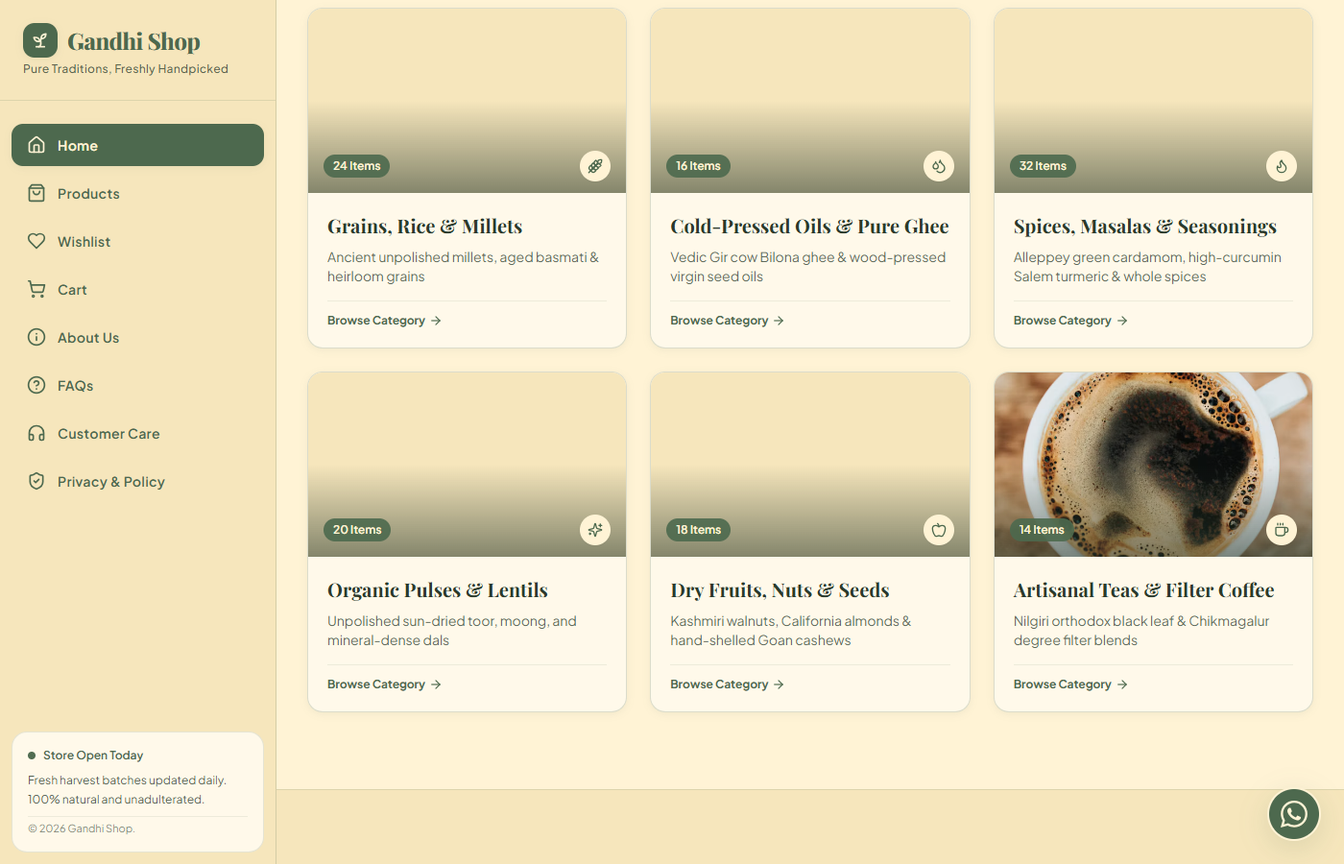
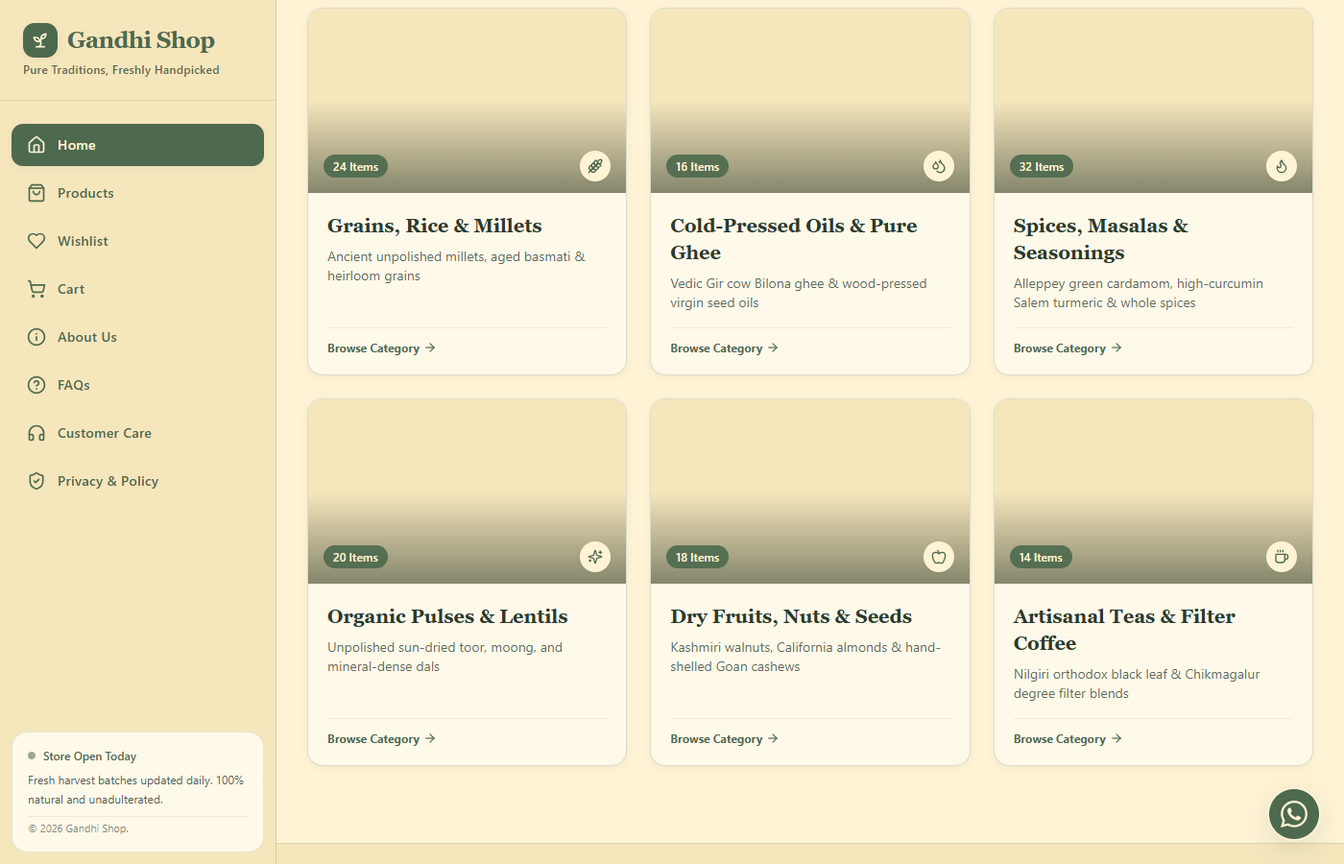
Convert color palette to Lemon Chiffon (#FFFACD) and Indian Red (#CD5C5C)

diff --git a/dist/assets/index-BgeKcpTG.css b/dist/assets/index-BgeKcpTG.css
@@ -1,0 +1,1 @@
+*,:before,:after{--tw-border-spacing-x: 0;--tw-border-spacing-y: 0;--tw-translate-x: 0;--tw-translate-y: 0;--tw-rotate: 0;--tw-skew-x: 0;--tw-skew-y: 0;--tw-scale-x: 1;--tw-scale-y: 1;--tw-pan-x: ;--tw-pan-y: ;--tw-pinch-zoom: ;--tw-scroll-snap-strictness: proximity;--tw-gradient-from-position: ;--tw-gradient-via-position: ;--tw-gradient-to-position: ;--tw-ordinal: ;--tw-slashed-zero: ;--tw-numeric-figure: ;--tw-numeric-spacing: ;--tw-numeric-fraction: ;--tw-ring-inset: ;--tw-ring-offset-width: 0px;--tw-ring-offset-color: #fff;--tw-ring-color: rgb(59 130 246 / .5);--tw-ring-offset-shadow: 0 0 #0000;--tw-ring-shadow: 0 0 #0000;--tw-shadow: 0 0 #0000;--tw-shadow-colored: 0 0 #0000;--tw-blur: ;--tw-brightness: ;--tw-contrast: ;--tw-grayscale: ;--tw-hue-rotate: ;--tw-invert: ;--tw-saturate: ;--tw-sepia: ;--tw-drop-shadow: ;--tw-backdrop-blur: ;--tw-backdrop-brightness: ;--tw-backdrop-contrast: ;--tw-backdrop-grayscale: ;--tw-backdrop-hue-rotate: ;--tw-backdrop-invert: ;--tw-backdrop-opacity: ;--tw-backdrop-saturate: ;--tw-backdrop-sepia: ;--tw-contain-size: ;--tw-contain-layout: ;--tw-contain-paint: ;--tw-contain-style: }::backdrop{--tw-border-spacing-x: 0;--tw-border-spacing-y: 0;--tw-translate-x: 0;--tw-translate-y: 0;--tw-rotate: 0;--tw-skew-x: 0;--tw-skew-y: 0;--tw-scale-x: 1;--tw-scale-y: 1;--tw-pan-x: ;--tw-pan-y: ;--tw-pinch-zoom: ;--tw-scroll-snap-strictness: proximity;--tw-gradient-from-position: ;--tw-gradient-via-position: ;--tw-gradient-to-position: ;--tw-ordinal: ;--tw-slashed-zero: ;--tw-numeric-figure: ;--tw-numeric-spacing: ;--tw-numeric-fraction: ;--tw-ring-inset: ;--tw-ring-offset-width: 0px;--tw-ring-offset-color: #fff;--tw-ring-color: rgb(59 130 246 / .5);--tw-ring-offset-shadow: 0 0 #0000;--tw-ring-shadow: 0 0 #0000;--tw-shadow: 0 0 #0000;--tw-shadow-colored: 0 0 #0000;--tw-blur: ;--tw-brightness: ;--tw-contrast: ;--tw-grayscale: ;--tw-hue-rotate: ;--tw-invert: ;--tw-saturate: ;--tw-sepia: ;--tw-drop-shadow: ;--tw-backdrop-blur: ;--tw-backdrop-brightness: ;--tw-backdrop-contrast: ;--tw-backdrop-grayscale: ;--tw-backdrop-hue-rotate: ;--tw-backdrop-invert: ;--tw-backdrop-opacity: ;--tw-backdrop-saturate: ;--tw-backdrop-sepia: ;--tw-contain-size: ;--tw-contain-layout: ;--tw-contain-paint: ;--tw-contain-style: }*,:before,:after{box-sizing:border-box;border-width:0;border-style:solid;border-color:#e5e7eb}:before,:after{--tw-content: ""}html,:host{line-height:1.5;-webkit-text-size-adjust:100%;-moz-tab-size:4;-o-tab-size:4;tab-size:4;font-family:Plus Jakarta Sans,Inter,system-ui,sans-serif;font-feature-settings:normal;font-variation-settings:normal;-webkit-tap-highlight-color:transparent}body{margin:0;line-height:inherit}hr{height:0;color:inherit;border-top-width:1px}abbr:where([title]){-webkit-text-decoration:underline dotted;text-decoration:underline dotted}h1,h2,h3,h4,h5,h6{font-size:inherit;font-weight:inherit}a{color:inherit;text-decoration:inherit}b,strong{font-weight:bolder}code,kbd,samp,pre{font-family:ui-monospace,SFMono-Regular,Menlo,Monaco,Consolas,Liberation Mono,Courier New,monospace;font-feature-settings:normal;font-variation-settings:normal;font-size:1em}small{font-size:80%}sub,sup{font-size:75%;line-height:0;position:relative;vertical-align:baseline}sub{bottom:-.25em}sup{top:-.5em}table{text-indent:0;border-color:inherit;border-collapse:collapse}button,input,optgroup,select,textarea{font-family:inherit;font-feature-settings:inherit;font-variation-settings:inherit;font-size:100%;font-weight:inherit;line-height:inherit;letter-spacing:inherit;color:inherit;margin:0;padding:0}button,select{text-transform:none}button,input:where([type=button]),input:where([type=reset]),input:where([type=submit]){-webkit-appearance:button;background-color:transparent;background-image:none}:-moz-focusring{outline:auto}:-moz-ui-invalid{box-shadow:none}progress{vertical-align:baseline}::-webkit-inner-spin-button,::-webkit-outer-spin-button{height:auto}[type=search]{-webkit-appearance:textfield;outline-offset:-2px}::-webkit-search-decoration{-webkit-appearance:none}::-webkit-file-upload-button{-webkit-appearance:button;font:inherit}summary{display:list-item}blockquote,dl,dd,h1,h2,h3,h4,h5,h6,hr,figure,p,pre{margin:0}fieldset{margin:0;padding:0}legend{padding:0}ol,ul,menu{list-style:none;margin:0;padding:0}dialog{padding:0}textarea{resize:vertical}input::-moz-placeholder,textarea::-moz-placeholder{opacity:1;color:#9ca3af}input::placeholder,textarea::placeholder{opacity:1;color:#9ca3af}button,[role=button]{cursor:pointer}:disabled{cursor:default}img,svg,video,canvas,audio,iframe,embed,object{display:block;vertical-align:middle}img,video{max-width:100%;height:auto}[hidden]:where(:not([hidden=until-found])){display:none}.\!container{width:100%!important}.container{width:100%}@media(min-width:640px){.\!container{max-width:640px!important}.container{max-width:640px}}@media(min-width:768px){.\!container{max-width:768px!important}.container{max-width:768px}}@media(min-width:1024px){.\!container{max-width:1024px!important}.container{max-width:1024px}}@media(min-width:1280px){.\!container{max-width:1280px!important}.container{max-width:1280px}}@media(min-width:1536px){.\!container{max-width:1536px!important}.container{max-width:1536px}}.pointer-events-none{pointer-events:none}.pointer-events-auto{pointer-events:auto}.visible{visibility:visible}.fixed{position:fixed}.absolute{position:absolute}.relative{position:relative}.sticky{position:sticky}.inset-0{top:0;right:0;bottom:0;left:0}.inset-y-0{top:0;bottom:0}.-bottom-6{bottom:-1.5rem}.-right-1{right:-.25rem}.-right-3{right:-.75rem}.-right-4{right:-1rem}.-top-1{top:-.25rem}.bottom-0{bottom:0}.bottom-3{bottom:.75rem}.bottom-4{bottom:1rem}.bottom-6{bottom:1.5rem}.left-0{left:0}.left-1\/2{left:50%}.left-3{left:.75rem}.left-4{left:1rem}.right-0{right:0}.right-3{right:.75rem}.right-4{right:1rem}.right-6{right:1.5rem}.top-0{top:0}.top-3{top:.75rem}.top-4{top:1rem}.top-6{top:1.5rem}.z-10{z-index:10}.z-20{z-index:20}.z-40{z-index:40}.z-50{z-index:50}.m-3{margin:.75rem}.mx-auto{margin-left:auto;margin-right:auto}.my-12{margin-top:3rem;margin-bottom:3rem}.my-auto{margin-top:auto;margin-bottom:auto}.mb-1{margin-bottom:.25rem}.mb-1\.5{margin-bottom:.375rem}.mb-12{margin-bottom:3rem}.mb-14{margin-bottom:3.5rem}.mb-2{margin-bottom:.5rem}.mb-4{margin-bottom:1rem}.mb-6{margin-bottom:1.5rem}.mb-8{margin-bottom:2rem}.ml-1{margin-left:.25rem}.ml-auto{margin-left:auto}.mt-0\.5{margin-top:.125rem}.mt-1{margin-top:.25rem}.mt-2{margin-top:.5rem}.mt-3{margin-top:.75rem}.mt-4{margin-top:1rem}.line-clamp-1{overflow:hidden;display:-webkit-box;-webkit-box-orient:vertical;-webkit-line-clamp:1}.line-clamp-2{overflow:hidden;display:-webkit-box;-webkit-box-orient:vertical;-webkit-line-clamp:2}.block{display:block}.inline-block{display:inline-block}.flex{display:flex}.inline-flex{display:inline-flex}.table{display:table}.grid{display:grid}.hidden{display:none}.aspect-square{aspect-ratio:1 / 1}.h-10{height:2.5rem}.h-12{height:3rem}.h-14{height:3.5rem}.h-16{height:4rem}.h-2{height:.5rem}.h-20{height:5rem}.h-3{height:.75rem}.h-3\.5{height:.875rem}.h-4{height:1rem}.h-48{height:12rem}.h-5{height:1.25rem}.h-6{height:1.5rem}.h-7{height:1.75rem}.h-8{height:2rem}.h-9{height:2.25rem}.h-\[420px\]{height:420px}.h-\[450px\]{height:450px}.h-full{height:100%}.h-screen{height:100vh}.min-h-\[70vh\]{min-height:70vh}.min-h-\[75vh\]{min-height:75vh}.min-h-screen{min-height:100vh}.w-10{width:2.5rem}.w-12{width:3rem}.w-14{width:3.5rem}.w-16{width:4rem}.w-2{width:.5rem}.w-20{width:5rem}.w-3{width:.75rem}.w-3\.5{width:.875rem}.w-4{width:1rem}.w-5{width:1.25rem}.w-6{width:1.5rem}.w-7{width:1.75rem}.w-72{width:18rem}.w-8{width:2rem}.w-9{width:2.25rem}.w-full{width:100%}.min-w-\[20px\]{min-width:20px}.min-w-\[32px\]{min-width:32px}.min-w-\[40px\]{min-width:40px}.min-w-\[80px\]{min-width:80px}.max-w-2xl{max-width:42rem}.max-w-3xl{max-width:48rem}.max-w-4xl{max-width:56rem}.max-w-7xl{max-width:80rem}.max-w-\[130px\]{max-width:130px}.max-w-\[140px\]{max-width:140px}.max-w-\[200px\]{max-width:200px}.max-w-\[220px\]{max-width:220px}.max-w-md{max-width:28rem}.max-w-sm{max-width:24rem}.max-w-xl{max-width:36rem}.max-w-xs{max-width:20rem}.flex-1{flex:1 1 0%}.shrink-0{flex-shrink:0}.-translate-x-1\/2{--tw-translate-x: -50%;transform:translate(var(--tw-translate-x),var(--tw-translate-y)) rotate(var(--tw-rotate)) skew(var(--tw-skew-x)) skewY(var(--tw-skew-y)) scaleX(var(--tw-scale-x)) scaleY(var(--tw-scale-y))}.-translate-x-full{--tw-translate-x: -100%;transform:translate(var(--tw-translate-x),var(--tw-translate-y)) rotate(var(--tw-rotate)) skew(var(--tw-skew-x)) skewY(var(--tw-skew-y)) scaleX(var(--tw-scale-x)) scaleY(var(--tw-scale-y))}.translate-x-0{--tw-translate-x: 0px;transform:translate(var(--tw-translate-x),var(--tw-translate-y)) rotate(var(--tw-rotate)) skew(var(--tw-skew-x)) skewY(var(--tw-skew-y)) scaleX(var(--tw-scale-x)) scaleY(var(--tw-scale-y))}.transform{transform:translate(var(--tw-translate-x),var(--tw-translate-y)) rotate(var(--tw-rotate)) skew(var(--tw-skew-x)) skewY(var(--tw-skew-y)) scaleX(var(--tw-scale-x)) scaleY(var(--tw-scale-y))}@keyframes bounce{0%,to{transform:translateY(-25%);animation-timing-function:cubic-bezier(.8,0,1,1)}50%{transform:none;animation-timing-function:cubic-bezier(0,0,.2,1)}}.animate-bounce{animation:bounce 1s infinite}@keyframes pulse{50%{opacity:.5}}.animate-pulse{animation:pulse 2s cubic-bezier(.4,0,.6,1) infinite}@keyframes spin{to{transform:rotate(360deg)}}.animate-spin{animation:spin 1s linear infinite}.cursor-crosshair{cursor:crosshair}.cursor-pointer{cursor:pointer}.resize{resize:both}.appearance-none{-webkit-appearance:none;-moz-appearance:none;appearance:none}.grid-cols-1{grid-template-columns:repeat(1,minmax(0,1fr))}.grid-cols-3{grid-template-columns:repeat(3,minmax(0,1fr))}.flex-col{flex-direction:column}.flex-wrap{flex-wrap:wrap}.items-start{align-items:flex-start}.items-center{align-items:center}.items-baseline{align-items:baseline}.justify-center{justify-content:center}.justify-between{justify-content:space-between}.gap-1{gap:.25rem}.gap-1\.5{gap:.375rem}.gap-10{gap:2.5rem}.gap-12{gap:3rem}.gap-2{gap:.5rem}.gap-2\.5{gap:.625rem}.gap-3{gap:.75rem}.gap-3\.5{gap:.875rem}.gap-4{gap:1rem}.gap-5{gap:1.25rem}.gap-6{gap:1.5rem}.gap-8{gap:2rem}.space-y-1>:not([hidden])~:not([hidden]){--tw-space-y-reverse: 0;margin-top:calc(.25rem * calc(1 - var(--tw-space-y-reverse)));margin-bottom:calc(.25rem * var(--tw-space-y-reverse))}.space-y-1\.5>:not([hidden])~:not([hidden]){--tw-space-y-reverse: 0;margin-top:calc(.375rem * calc(1 - var(--tw-space-y-reverse)));margin-bottom:calc(.375rem * var(--tw-space-y-reverse))}.space-y-10>:not([hidden])~:not([hidden]){--tw-space-y-reverse: 0;margin-top:calc(2.5rem * calc(1 - var(--tw-space-y-reverse)));margin-bottom:calc(2.5rem * var(--tw-space-y-reverse))}.space-y-12>:not([hidden])~:not([hidden]){--tw-space-y-reverse: 0;margin-top:calc(3rem * calc(1 - var(--tw-space-y-reverse)));margin-bottom:calc(3rem * var(--tw-space-y-reverse))}.space-y-16>:not([hidden])~:not([hidden]){--tw-space-y-reverse: 0;margin-top:calc(4rem * calc(1 - var(--tw-space-y-reverse)));margin-bottom:calc(4rem * var(--tw-space-y-reverse))}.space-y-2>:not([hidden])~:not([hidden]){--tw-space-y-reverse: 0;margin-top:calc(.5rem * calc(1 - var(--tw-space-y-reverse)));margin-bottom:calc(.5rem * var(--tw-space-y-reverse))}.space-y-3>:not([hidden])~:not([hidden]){--tw-space-y-reverse: 0;margin-top:calc(.75rem * calc(1 - var(--tw-space-y-reverse)));margin-bottom:calc(.75rem * var(--tw-space-y-reverse))}.space-y-4>:not([hidden])~:not([hidden]){--tw-space-y-reverse: 0;margin-top:calc(1rem * calc(1 - var(--tw-space-y-reverse)));margin-bottom:calc(1rem * var(--tw-space-y-reverse))}.space-y-5>:not([hidden])~:not([hidden]){--tw-space-y-reverse: 0;margin-top:calc(1.25rem * calc(1 - var(--tw-space-y-reverse)));margin-bottom:calc(1.25rem * var(--tw-space-y-reverse))}.space-y-6>:not([hidden])~:not([hidden]){--tw-space-y-reverse: 0;margin-top:calc(1.5rem * calc(1 - var(--tw-space-y-reverse)));margin-bottom:calc(1.5rem * var(--tw-space-y-reverse))}.space-y-8>:not([hidden])~:not([hidden]){--tw-space-y-reverse: 0;margin-top:calc(2rem * calc(1 - var(--tw-space-y-reverse)));margin-bottom:calc(2rem * var(--tw-space-y-reverse))}.self-start{align-self:flex-start}.overflow-hidden{overflow:hidden}.overflow-y-auto{overflow-y:auto}.truncate{overflow:hidden;text-overflow:ellipsis;white-space:nowrap}.rounded{border-radius:.25rem}.rounded-btn{border-radius:12px}.rounded-card{border-radius:16px}.rounded-full{border-radius:9999px}.rounded-lg{border-radius:.5rem}.rounded-md{border-radius:.375rem}.border{border-width:1px}.border-2{border-width:2px}.border-4{border-width:4px}.border-y{border-top-width:1px;border-bottom-width:1px}.border-b{border-bottom-width:1px}.border-l{border-left-width:1px}.border-l-2{border-left-width:2px}.border-r{border-right-width:1px}.border-t{border-top-width:1px}.border-cream{--tw-border-opacity: 1;border-color:rgb(255 250 205 / var(--tw-border-opacity, 1))}.border-cream\/30{border-color:#fffacd4d}.border-olive{--tw-border-opacity: 1;border-color:rgb(205 92 92 / var(--tw-border-opacity, 1))}.border-olive-dark{--tw-border-opacity: 1;border-color:rgb(168 62 62 / var(--tw-border-opacity, 1))}.border-olive\/10{border-color:#cd5c5c1a}.border-olive\/15{border-color:#cd5c5c26}.border-olive\/20{border-color:#cd5c5c33}.border-olive\/25{border-color:#cd5c5c40}.border-olive\/30{border-color:#cd5c5c4d}.border-t-olive{--tw-border-opacity: 1;border-top-color:rgb(205 92 92 / var(--tw-border-opacity, 1))}.bg-\[\#FFFACD\],.bg-cream{--tw-bg-opacity: 1;background-color:rgb(255 250 205 / var(--tw-bg-opacity, 1))}.bg-cream-deep{--tw-bg-opacity: 1;background-color:rgb(245 236 183 / var(--tw-bg-opacity, 1))}.bg-cream-deep\/60{background-color:#f5ecb799}.bg-cream-deep\/70{background-color:#f5ecb7b3}.bg-cream-light{--tw-bg-opacity: 1;background-color:rgb(255 253 238 / var(--tw-bg-opacity, 1))}.bg-cream\/20{background-color:#fffacd33}.bg-cream\/90{background-color:#fffacde6}.bg-ink\/40{background-color:#381b1b66}.bg-ink\/70{background-color:#381b1bb3}.bg-ink\/75{background-color:#381b1bbf}.bg-olive{--tw-bg-opacity: 1;background-color:rgb(205 92 92 / var(--tw-bg-opacity, 1))}.bg-olive-soft{background-color:#cd5c5c1f}.bg-olive\/90{background-color:#cd5c5ce6}.bg-gradient-to-t{background-image:linear-gradient(to top,var(--tw-gradient-stops))}.from-ink\/70{--tw-gradient-from: rgb(56 27 27 / .7) var(--tw-gradient-from-position);--tw-gradient-to: rgb(56 27 27 / 0) var(--tw-gradient-to-position);--tw-gradient-stops: var(--tw-gradient-from), var(--tw-gradient-to)}.from-ink\/80{--tw-gradient-from: rgb(56 27 27 / .8) var(--tw-gradient-from-position);--tw-gradient-to: rgb(56 27 27 / 0) var(--tw-gradient-to-position);--tw-gradient-stops: var(--tw-gradient-from), var(--tw-gradient-to)}.via-ink\/20{--tw-gradient-to: rgb(56 27 27 / 0) var(--tw-gradient-to-position);--tw-gradient-stops: var(--tw-gradient-from), rgb(56 27 27 / .2) var(--tw-gradient-via-position), var(--tw-gradient-to)}.via-transparent{--tw-gradient-to: rgb(0 0 0 / 0) var(--tw-gradient-to-position);--tw-gradient-stops: var(--tw-gradient-from), transparent var(--tw-gradient-via-position), var(--tw-gradient-to)}.to-ink\/40{--tw-gradient-to: rgb(56 27 27 / .4) var(--tw-gradient-to-position)}.to-transparent{--tw-gradient-to: transparent var(--tw-gradient-to-position)}.fill-cream{fill:#fffacd}.fill-olive{fill:#cd5c5c}.object-cover{-o-object-fit:cover;object-fit:cover}.p-1{padding:.25rem}.p-1\.5{padding:.375rem}.p-2{padding:.5rem}.p-3{padding:.75rem}.p-4{padding:1rem}.p-5{padding:1.25rem}.p-6{padding:1.5rem}.p-8{padding:2rem}.px-1{padding-left:.25rem;padding-right:.25rem}.px-1\.5{padding-left:.375rem;padding-right:.375rem}.px-2{padding-left:.5rem;padding-right:.5rem}.px-2\.5{padding-left:.625rem;padding-right:.625rem}.px-3{padding-left:.75rem;padding-right:.75rem}.px-3\.5{padding-left:.875rem;padding-right:.875rem}.px-4{padding-left:1rem;padding-right:1rem}.px-5{padding-left:1.25rem;padding-right:1.25rem}.px-6{padding-left:1.5rem;padding-right:1.5rem}.px-8{padding-left:2rem;padding-right:2rem}.py-0\.5{padding-top:.125rem;padding-bottom:.125rem}.py-1{padding-top:.25rem;padding-bottom:.25rem}.py-1\.5{padding-top:.375rem;padding-bottom:.375rem}.py-16{padding-top:4rem;padding-bottom:4rem}.py-2{padding-top:.5rem;padding-bottom:.5rem}.py-2\.5{padding-top:.625rem;padding-bottom:.625rem}.py-20{padding-top:5rem;padding-bottom:5rem}.py-3{padding-top:.75rem;padding-bottom:.75rem}.py-3\.5{padding-top:.875rem;padding-bottom:.875rem}.py-4{padding-top:1rem;padding-bottom:1rem}.py-6{padding-top:1.5rem;padding-bottom:1.5rem}.py-8{padding-top:2rem;padding-bottom:2rem}.pb-3{padding-bottom:.75rem}.pb-4{padding-bottom:1rem}.pb-6{padding-bottom:1.5rem}.pl-10{padding-left:2.5rem}.pl-11{padding-left:2.75rem}.pl-4{padding-left:1rem}.pr-1{padding-right:.25rem}.pr-10{padding-right:2.5rem}.pr-3\.5{padding-right:.875rem}.pt-1{padding-top:.25rem}.pt-2{padding-top:.5rem}.pt-3{padding-top:.75rem}.pt-4{padding-top:1rem}.pt-6{padding-top:1.5rem}.pt-8{padding-top:2rem}.text-left{text-align:left}.text-center{text-align:center}.text-right{text-align:right}.font-sans{font-family:Plus Jakarta Sans,Inter,system-ui,sans-serif}.font-serif{font-family:Playfair Display,Georgia,serif}.text-2xl{font-size:1.5rem;line-height:2rem}.text-3xl{font-size:1.875rem;line-height:2.25rem}.text-4xl{font-size:2.25rem;line-height:2.5rem}.text-\[10px\]{font-size:10px}.text-\[11px\]{font-size:11px}.text-base{font-size:1rem;line-height:1.5rem}.text-lg{font-size:1.125rem;line-height:1.75rem}.text-sm{font-size:.875rem;line-height:1.25rem}.text-xl{font-size:1.25rem;line-height:1.75rem}.text-xs{font-size:.75rem;line-height:1rem}.font-bold{font-weight:700}.font-extrabold{font-weight:800}.font-medium{font-weight:500}.font-semibold{font-weight:600}.uppercase{text-transform:uppercase}.italic{font-style:italic}.leading-\[1\.1\]{line-height:1.1}.leading-none{line-height:1}.leading-relaxed{line-height:1.625}.leading-snug{line-height:1.375}.leading-tight{line-height:1.25}.tracking-tight{letter-spacing:-.025em}.tracking-wide{letter-spacing:.025em}.tracking-wider{letter-spacing:.05em}.tracking-widest{letter-spacing:.1em}.text-\[\#381B1B\]{--tw-text-opacity: 1;color:rgb(56 27 27 / var(--tw-text-opacity, 1))}.text-cream{--tw-text-opacity: 1;color:rgb(255 250 205 / var(--tw-text-opacity, 1))}.text-cream\/80{color:#fffacdcc}.text-cream\/90{color:#fffacde6}.text-ink{--tw-text-opacity: 1;color:rgb(56 27 27 / var(--tw-text-opacity, 1))}.text-ink\/40{color:#381b1b66}.text-ink\/50{color:#381b1b80}.text-ink\/60{color:#381b1b99}.text-ink\/65{color:#381b1ba6}.text-ink\/70{color:#381b1bb3}.text-ink\/75{color:#381b1bbf}.text-ink\/80{color:#381b1bcc}.text-ink\/85{color:#381b1bd9}.text-olive{--tw-text-opacity: 1;color:rgb(205 92 92 / var(--tw-text-opacity, 1))}.text-olive\/20{color:#cd5c5c33}.underline{text-decoration-line:underline}.line-through{text-decoration-line:line-through}.underline-offset-2{text-underline-offset:2px}.underline-offset-4{text-underline-offset:4px}.antialiased{-webkit-font-smoothing:antialiased;-moz-osx-font-smoothing:grayscale}.accent-olive{accent-color:#CD5C5C}.opacity-80{opacity:.8}.shadow-inner{--tw-shadow: inset 0 2px 4px 0 rgb(0 0 0 / .05);--tw-shadow-colored: inset 0 2px 4px 0 var(--tw-shadow-color);box-shadow:var(--tw-ring-offset-shadow, 0 0 #0000),var(--tw-ring-shadow, 0 0 #0000),var(--tw-shadow)}.shadow-olive-lg{--tw-shadow: 0 8px 30px rgba(205, 92, 92, .2);--tw-shadow-colored: 0 8px 30px var(--tw-shadow-color);box-shadow:var(--tw-ring-offset-shadow, 0 0 #0000),var(--tw-ring-shadow, 0 0 #0000),var(--tw-shadow)}.shadow-olive-md{--tw-shadow: 0 4px 16px rgba(205, 92, 92, .15);--tw-shadow-colored: 0 4px 16px var(--tw-shadow-color);box-shadow:var(--tw-ring-offset-shadow, 0 0 #0000),var(--tw-ring-shadow, 0 0 #0000),var(--tw-shadow)}.shadow-olive-sm{--tw-shadow: 0 2px 8px rgba(205, 92, 92, .1);--tw-shadow-colored: 0 2px 8px var(--tw-shadow-color);box-shadow:var(--tw-ring-offset-shadow, 0 0 #0000),var(--tw-ring-shadow, 0 0 #0000),var(--tw-shadow)}.shadow-sm{--tw-shadow: 0 1px 2px 0 rgb(0 0 0 / .05);--tw-shadow-colored: 0 1px 2px 0 var(--tw-shadow-color);box-shadow:var(--tw-ring-offset-shadow, 0 0 #0000),var(--tw-ring-shadow, 0 0 #0000),var(--tw-shadow)}.drop-shadow-md{--tw-drop-shadow: drop-shadow(0 4px 3px rgb(0 0 0 / .07)) drop-shadow(0 2px 2px rgb(0 0 0 / .06));filter:var(--tw-blur) var(--tw-brightness) var(--tw-contrast) var(--tw-grayscale) var(--tw-hue-rotate) var(--tw-invert) var(--tw-saturate) var(--tw-sepia) var(--tw-drop-shadow)}.drop-shadow-sm{--tw-drop-shadow: drop-shadow(0 1px 1px rgb(0 0 0 / .05));filter:var(--tw-blur) var(--tw-brightness) var(--tw-contrast) var(--tw-grayscale) var(--tw-hue-rotate) var(--tw-invert) var(--tw-saturate) var(--tw-sepia) var(--tw-drop-shadow)}.filter{filter:var(--tw-blur) var(--tw-brightness) var(--tw-contrast) var(--tw-grayscale) var(--tw-hue-rotate) var(--tw-invert) var(--tw-saturate) var(--tw-sepia) var(--tw-drop-shadow)}.transition{transition-property:color,background-color,border-color,text-decoration-color,fill,stroke,opacity,box-shadow,transform,filter,backdrop-filter;transition-timing-function:cubic-bezier(.4,0,.2,1);transition-duration:.15s}.transition-all{transition-property:all;transition-timing-function:cubic-bezier(.4,0,.2,1);transition-duration:.15s}.transition-colors{transition-property:color,background-color,border-color,text-decoration-color,fill,stroke;transition-timing-function:cubic-bezier(.4,0,.2,1);transition-duration:.15s}.transition-opacity{transition-property:opacity;transition-timing-function:cubic-bezier(.4,0,.2,1);transition-duration:.15s}.transition-shadow{transition-property:box-shadow;transition-timing-function:cubic-bezier(.4,0,.2,1);transition-duration:.15s}.transition-transform{transition-property:transform;transition-timing-function:cubic-bezier(.4,0,.2,1);transition-duration:.15s}.duration-100{transition-duration:.1s}.duration-150{transition-duration:.15s}.duration-200{transition-duration:.2s}.duration-300{transition-duration:.3s}.duration-500{transition-duration:.5s}.duration-700{transition-duration:.7s}.ease-in-out{transition-timing-function:cubic-bezier(.4,0,.2,1)}.ease-out{transition-timing-function:cubic-bezier(0,0,.2,1)}:root{--cream: #FFFACD;--cream-deep: #F5ECB7;--cream-light: #FFFDEE;--olive: #CD5C5C;--olive-dark: #A83E3E;--olive-soft: rgba(205, 92, 92, .12);--olive-border: rgba(205, 92, 92, .25);--ink: #381B1B;--ink-muted: #633939}html,body{background-color:var(--cream);color:var(--ink);font-family:Plus Jakarta Sans,Inter,system-ui,sans-serif;overflow-x:hidden;scroll-behavior:smooth;margin:0;padding:0}*:focus-visible{outline:2px solid var(--olive)!important;outline-offset:2px!important}::-webkit-scrollbar{width:8px;height:8px}::-webkit-scrollbar-track{background:var(--cream-deep)}::-webkit-scrollbar-thumb{background:var(--olive);border-radius:9999px;border:2px solid var(--cream-deep)}::-webkit-scrollbar-thumb:hover{background:var(--olive-dark)}h1,h2,h3,.font-editorial{font-family:Playfair Display,Georgia,serif}input,textarea,select{background-color:var(--cream-light);color:var(--ink);border-color:var(--olive-border)}input:focus,textarea:focus,select:focus{outline:none;border-color:var(--olive)}input[type=range]{accent-color:var(--olive)}.selection\:bg-\[\#CD5C5C\] *::-moz-selection{--tw-bg-opacity: 1;background-color:rgb(205 92 92 / var(--tw-bg-opacity, 1))}.selection\:bg-\[\#CD5C5C\] *::selection{--tw-bg-opacity: 1;background-color:rgb(205 92 92 / var(--tw-bg-opacity, 1))}.selection\:text-\[\#FFFACD\] *::-moz-selection{--tw-text-opacity: 1;color:rgb(255 250 205 / var(--tw-text-opacity, 1))}.selection\:text-\[\#FFFACD\] *::selection{--tw-text-opacity: 1;color:rgb(255 250 205 / var(--tw-text-opacity, 1))}.selection\:bg-\[\#CD5C5C\]::-moz-selection{--tw-bg-opacity: 1;background-color:rgb(205 92 92 / var(--tw-bg-opacity, 1))}.selection\:bg-\[\#CD5C5C\]::selection{--tw-bg-opacity: 1;background-color:rgb(205 92 92 / var(--tw-bg-opacity, 1))}.selection\:text-\[\#FFFACD\]::-moz-selection{--tw-text-opacity: 1;color:rgb(255 250 205 / var(--tw-text-opacity, 1))}.selection\:text-\[\#FFFACD\]::selection{--tw-text-opacity: 1;color:rgb(255 250 205 / var(--tw-text-opacity, 1))}.placeholder\:text-ink\/40::-moz-placeholder{color:#381b1b66}.placeholder\:text-ink\/40::placeholder{color:#381b1b66}.hover\:scale-105:hover{--tw-scale-x: 1.05;--tw-scale-y: 1.05;transform:translate(var(--tw-translate-x),var(--tw-translate-y)) rotate(var(--tw-rotate)) skew(var(--tw-skew-x)) skewY(var(--tw-skew-y)) scaleX(var(--tw-scale-x)) scaleY(var(--tw-scale-y))}.hover\:border-olive:hover{--tw-border-opacity: 1;border-color:rgb(205 92 92 / var(--tw-border-opacity, 1))}.hover\:border-olive\/60:hover{border-color:#cd5c5c99}.hover\:bg-cream-deep:hover{--tw-bg-opacity: 1;background-color:rgb(245 236 183 / var(--tw-bg-opacity, 1))}.hover\:bg-olive-dark:hover{--tw-bg-opacity: 1;background-color:rgb(168 62 62 / var(--tw-bg-opacity, 1))}.hover\:bg-olive-soft:hover{background-color:#cd5c5c1f}.hover\:bg-olive\/10:hover{background-color:#cd5c5c1a}.hover\:text-cream:hover{--tw-text-opacity: 1;color:rgb(255 250 205 / var(--tw-text-opacity, 1))}.hover\:text-olive:hover{--tw-text-opacity: 1;color:rgb(205 92 92 / var(--tw-text-opacity, 1))}.hover\:text-olive-dark:hover{--tw-text-opacity: 1;color:rgb(168 62 62 / var(--tw-text-opacity, 1))}.hover\:underline:hover{text-decoration-line:underline}.hover\:shadow-olive-lg:hover{--tw-shadow: 0 8px 30px rgba(205, 92, 92, .2);--tw-shadow-colored: 0 8px 30px var(--tw-shadow-color);box-shadow:var(--tw-ring-offset-shadow, 0 0 #0000),var(--tw-ring-shadow, 0 0 #0000),var(--tw-shadow)}.hover\:shadow-olive-md:hover{--tw-shadow: 0 4px 16px rgba(205, 92, 92, .15);--tw-shadow-colored: 0 4px 16px var(--tw-shadow-color);box-shadow:var(--tw-ring-offset-shadow, 0 0 #0000),var(--tw-ring-shadow, 0 0 #0000),var(--tw-shadow)}.focus\:border-olive:focus{--tw-border-opacity: 1;border-color:rgb(205 92 92 / var(--tw-border-opacity, 1))}.focus\:ring-1:focus{--tw-ring-offset-shadow: var(--tw-ring-inset) 0 0 0 var(--tw-ring-offset-width) var(--tw-ring-offset-color);--tw-ring-shadow: var(--tw-ring-inset) 0 0 0 calc(1px + var(--tw-ring-offset-width)) var(--tw-ring-color);box-shadow:var(--tw-ring-offset-shadow),var(--tw-ring-shadow),var(--tw-shadow, 0 0 #0000)}.focus\:ring-2:focus{--tw-ring-offset-shadow: var(--tw-ring-inset) 0 0 0 var(--tw-ring-offset-width) var(--tw-ring-offset-color);--tw-ring-shadow: var(--tw-ring-inset) 0 0 0 calc(2px + var(--tw-ring-offset-width)) var(--tw-ring-color);box-shadow:var(--tw-ring-offset-shadow),var(--tw-ring-shadow),var(--tw-shadow, 0 0 #0000)}.focus\:ring-olive:focus{--tw-ring-opacity: 1;--tw-ring-color: rgb(205 92 92 / var(--tw-ring-opacity, 1))}.focus\:ring-offset-1:focus{--tw-ring-offset-width: 1px}.focus\:ring-offset-cream:focus{--tw-ring-offset-color: #FFFACD}.focus-visible\:ring-1:focus-visible{--tw-ring-offset-shadow: var(--tw-ring-inset) 0 0 0 var(--tw-ring-offset-width) var(--tw-ring-offset-color);--tw-ring-shadow: var(--tw-ring-inset) 0 0 0 calc(1px + var(--tw-ring-offset-width)) var(--tw-ring-color);box-shadow:var(--tw-ring-offset-shadow),var(--tw-ring-shadow),var(--tw-shadow, 0 0 #0000)}.focus-visible\:ring-2:focus-visible{--tw-ring-offset-shadow: var(--tw-ring-inset) 0 0 0 var(--tw-ring-offset-width) var(--tw-ring-offset-color);--tw-ring-shadow: var(--tw-ring-inset) 0 0 0 calc(2px + var(--tw-ring-offset-width)) var(--tw-ring-color);box-shadow:var(--tw-ring-offset-shadow),var(--tw-ring-shadow),var(--tw-shadow, 0 0 #0000)}.focus-visible\:ring-cream:focus-visible{--tw-ring-opacity: 1;--tw-ring-color: rgb(255 250 205 / var(--tw-ring-opacity, 1))}.focus-visible\:ring-olive:focus-visible{--tw-ring-opacity: 1;--tw-ring-color: rgb(205 92 92 / var(--tw-ring-opacity, 1))}.focus-visible\:ring-offset-2:focus-visible{--tw-ring-offset-width: 2px}.active\:scale-95:active{--tw-scale-x: .95;--tw-scale-y: .95;transform:translate(var(--tw-translate-x),var(--tw-translate-y)) rotate(var(--tw-rotate)) skew(var(--tw-skew-x)) skewY(var(--tw-skew-y)) scaleX(var(--tw-scale-x)) scaleY(var(--tw-scale-y))}.disabled\:pointer-events-none:disabled{pointer-events:none}.disabled\:opacity-40:disabled{opacity:.4}.group:hover .group-hover\:-translate-x-1{--tw-translate-x: -.25rem;transform:translate(var(--tw-translate-x),var(--tw-translate-y)) rotate(var(--tw-rotate)) skew(var(--tw-skew-x)) skewY(var(--tw-skew-y)) scaleX(var(--tw-scale-x)) scaleY(var(--tw-scale-y))}.group:hover .group-hover\:translate-x-1{--tw-translate-x: .25rem;transform:translate(var(--tw-translate-x),var(--tw-translate-y)) rotate(var(--tw-rotate)) skew(var(--tw-skew-x)) skewY(var(--tw-skew-y)) scaleX(var(--tw-scale-x)) scaleY(var(--tw-scale-y))}.group:hover .group-hover\:translate-x-1\.5{--tw-translate-x: .375rem;transform:translate(var(--tw-translate-x),var(--tw-translate-y)) rotate(var(--tw-rotate)) skew(var(--tw-skew-x)) skewY(var(--tw-skew-y)) scaleX(var(--tw-scale-x)) scaleY(var(--tw-scale-y))}.group:hover .group-hover\:scale-105{--tw-scale-x: 1.05;--tw-scale-y: 1.05;transform:translate(var(--tw-translate-x),var(--tw-translate-y)) rotate(var(--tw-rotate)) skew(var(--tw-skew-x)) skewY(var(--tw-skew-y)) scaleX(var(--tw-scale-x)) scaleY(var(--tw-scale-y))}.group:hover .group-hover\:scale-110{--tw-scale-x: 1.1;--tw-scale-y: 1.1;transform:translate(var(--tw-translate-x),var(--tw-translate-y)) rotate(var(--tw-rotate)) skew(var(--tw-skew-x)) skewY(var(--tw-skew-y)) scaleX(var(--tw-scale-x)) scaleY(var(--tw-scale-y))}.group:hover .group-hover\:bg-cream\/30{background-color:#fffacd4d}.group:hover .group-hover\:bg-olive{--tw-bg-opacity: 1;background-color:rgb(205 92 92 / var(--tw-bg-opacity, 1))}.group:hover .group-hover\:text-cream{--tw-text-opacity: 1;color:rgb(255 250 205 / var(--tw-text-opacity, 1))}.group:hover .group-hover\:text-olive{--tw-text-opacity: 1;color:rgb(205 92 92 / var(--tw-text-opacity, 1))}.group:hover .group-hover\:text-olive-dark{--tw-text-opacity: 1;color:rgb(168 62 62 / var(--tw-text-opacity, 1))}.group:hover .group-hover\:text-olive\/30{color:#cd5c5c4d}@media(min-width:640px){.sm\:right-6{right:1.5rem}.sm\:block{display:block}.sm\:h-24{height:6rem}.sm\:w-24{width:6rem}.sm\:w-auto{width:auto}.sm\:grid-cols-2{grid-template-columns:repeat(2,minmax(0,1fr))}.sm\:grid-cols-3{grid-template-columns:repeat(3,minmax(0,1fr))}.sm\:flex-row{flex-direction:row}.sm\:items-end{align-items:flex-end}.sm\:items-center{align-items:center}.sm\:justify-end{justify-content:flex-end}.sm\:self-auto{align-self:auto}.sm\:border-t-0{border-top-width:0px}.sm\:p-12{padding:3rem}.sm\:p-5{padding:1.25rem}.sm\:p-6{padding:1.5rem}.sm\:p-8{padding:2rem}.sm\:px-6{padding-left:1.5rem;padding-right:1.5rem}.sm\:px-8{padding-left:2rem;padding-right:2rem}.sm\:pb-6{padding-bottom:1.5rem}.sm\:pb-8{padding-bottom:2rem}.sm\:pt-0{padding-top:0}.sm\:pt-6{padding-top:1.5rem}.sm\:text-2xl{font-size:1.5rem;line-height:2rem}.sm\:text-3xl{font-size:1.875rem;line-height:2.25rem}.sm\:text-4xl{font-size:2.25rem;line-height:2.5rem}.sm\:text-5xl{font-size:3rem;line-height:1}.sm\:text-6xl{font-size:3.75rem;line-height:1}.sm\:text-base{font-size:1rem;line-height:1.5rem}.sm\:text-lg{font-size:1.125rem;line-height:1.75rem}.sm\:text-sm{font-size:.875rem;line-height:1.25rem}.sm\:text-xl{font-size:1.25rem;line-height:1.75rem}}@media(min-width:768px){.md\:grid-cols-3{grid-template-columns:repeat(3,minmax(0,1fr))}.md\:flex-row{flex-direction:row}.md\:items-end{align-items:flex-end}.md\:text-5xl{font-size:3rem;line-height:1}.md\:text-6xl{font-size:3.75rem;line-height:1}.md\:text-7xl{font-size:4.5rem;line-height:1}}@media(min-width:1024px){.lg\:col-span-3{grid-column:span 3 / span 3}.lg\:col-span-4{grid-column:span 4 / span 4}.lg\:col-span-5{grid-column:span 5 / span 5}.lg\:col-span-6{grid-column:span 6 / span 6}.lg\:col-span-7{grid-column:span 7 / span 7}.lg\:col-span-8{grid-column:span 8 / span 8}.lg\:col-span-9{grid-column:span 9 / span 9}.lg\:block{display:block}.lg\:hidden{display:none}.lg\:translate-x-0{--tw-translate-x: 0px;transform:translate(var(--tw-translate-x),var(--tw-translate-y)) rotate(var(--tw-rotate)) skew(var(--tw-skew-x)) skewY(var(--tw-skew-y)) scaleX(var(--tw-scale-x)) scaleY(var(--tw-scale-y))}.lg\:grid-cols-12{grid-template-columns:repeat(12,minmax(0,1fr))}.lg\:grid-cols-3{grid-template-columns:repeat(3,minmax(0,1fr))}.lg\:grid-cols-4{grid-template-columns:repeat(4,minmax(0,1fr))}.lg\:flex-row{flex-direction:row}.lg\:items-center{align-items:center}.lg\:pl-72{padding-left:18rem}}@media(min-width:1280px){.xl\:grid-cols-4{grid-template-columns:repeat(4,minmax(0,1fr))}}

diff --git a/tailwind.config.js b/tailwind.config.js
@@ -8,19 +8,19 @@ export default {
     extend: {
       colors: {
         cream: {
-          DEFAULT: '#FFF3D5', // Global page background
-          deep: '#F6E6BC',    // Panels, cards needing subtle separation
-          light: '#FFF9EA',   // Input fields, elevated surfaces, modals
+          DEFAULT: '#FFFACD', // Lemon Chiffon - Global page background
+          deep: '#F5ECB7',    // Deeper Lemon Chiffon - panels, cards needing subtle separation
+          light: '#FFFDEE',   // Elevated surfaces, input fields, modals
         },
         olive: {
-          DEFAULT: '#4D694E', // Signature brand color
-          dark: '#3A503B',    // Hover / pressed state
-          soft: 'rgba(77, 105, 78, 0.12)', // Tinted chips & active states
-          border: 'rgba(77, 105, 78, 0.25)', // Subtle borders
+          DEFAULT: '#CD5C5C', // Indian Red - Signature brand color
+          dark: '#A83E3E',    // Deep Indian Red - Hover / pressed state
+          soft: 'rgba(205, 92, 92, 0.12)', // Tinted chips & active states
+          border: 'rgba(205, 92, 92, 0.25)', // Subtle borders
         },
         ink: {
-          DEFAULT: '#2B3A2C', // Editorial body text (dark olive tone)
-          light: '#4B5E4C',   // Muted editorial secondary text
+          DEFAULT: '#381B1B', // Editorial body text (deep terracotta tone)
+          light: '#633939',   // Muted editorial secondary text
         }
       },
       fontFamily: {
@@ -28,9 +28,9 @@ export default {
         sans: ['"Plus Jakarta Sans"', 'Inter', 'system-ui', 'sans-serif'],
       },
       boxShadow: {
-        'olive-sm': '0 2px 8px rgba(77, 105, 78, 0.08)',
-        'olive-md': '0 4px 16px rgba(77, 105, 78, 0.12)',
-        'olive-lg': '0 8px 30px rgba(77, 105, 78, 0.16)',
+        'olive-sm': '0 2px 8px rgba(205, 92, 92, 0.10)',
+        'olive-md': '0 4px 16px rgba(205, 92, 92, 0.15)',
+        'olive-lg': '0 8px 30px rgba(205, 92, 92, 0.20)',
       },
       borderRadius: {
         'card': '16px',

diff --git a/src/theme.js b/src/theme.js
@@ -1,21 +1,22 @@
 /**
  * Design System Theme & Color Tokens for Gandhi Shop
- * Strict two-color base palette (Beige Cream & Olive Green) with derived tints.
+ * Strict two-color base palette (Lemon Chiffon & Indian Red) with derived tints.
+ * Reference: Indian Red #CD5C5C (RGB: 205 92 92), Lemon Chiffon #FFFACD (RGB: 255 250 205)
  */
 export const THEME = {
   colors: {
-    // Primary Brand Identity
-    cream: '#FFF3D5',       // Global page background
-    creamDeep: '#F6E6BC',   // Subtle separation cards, sidebar base, accordion containers
-    creamLight: '#FFF9EA',  // Input fields, modals, elevated surfaces
+    // Primary Brand Identity (Lemon Chiffon & Indian Red)
+    cream: '#FFFACD',       // Lemon Chiffon - Global page background
+    creamDeep: '#F5ECB7',   // Deeper Lemon Chiffon - separation cards, sidebar base, accordion containers
+    creamLight: '#FFFDEE',  // Elevated surfaces, input fields, modals
 
-    olive: '#4D694E',       // Primary signature brand color
-    oliveDark: '#3A503B',   // Hover / pressed state
-    oliveSoft: 'rgba(77, 105, 78, 0.12)', // Subtle tinted surfaces, active-state chips
-    oliveBorder: 'rgba(77, 105, 78, 0.22)',
+    olive: '#CD5C5C',       // Indian Red - Primary signature brand color
+    oliveDark: '#A83E3E',   // Deep Indian Red - Hover / pressed state
+    oliveSoft: 'rgba(205, 92, 92, 0.12)', // Subtle tinted surfaces, active-state chips
+    oliveBorder: 'rgba(205, 92, 92, 0.25)',
 
-    ink: '#2B3A2C',         // High contrast editorial body text (dark olive tone)
-    inkMuted: '#4B5E4C',    // Subdued captions and metadata
+    ink: '#381B1B',         // High contrast editorial body text (deep terracotta tone)
+    inkMuted: '#633939',    // Subdued captions and metadata
   },
   typography: {
     headingFont: '"Playfair Display", Georgia, serif',

diff --git a/dist/index.html b/dist/index.html
@@ -4,7 +4,7 @@
     <meta charset="UTF-8" />
     <link rel="icon" type="image/svg+xml" href="./favicon.svg" />
     <meta name="viewport" content="width=device-width, initial-scale=1.0" />
-    <meta name="theme-color" content="#4D694E" />
+    <meta name="theme-color" content="#CD5C5C" />
     <meta name="description" content="Gandhi Shop - Pure, Authentic, Handpicked Groceries and Organic Essentials delivered fresh to your doorstep." />
     
     <!-- Google Fonts: Playfair Display & Plus Jakarta Sans -->
@@ -13,10 +13,10 @@
     <link href="https://fonts.googleapis.com/css2?family=Playfair+Display:ital,wght@0,400..900;1,400..900&family=Plus+Jakarta+Sans:ital,wght@0,300..800;1,300..800&display=swap" rel="stylesheet">
 
     <title>Gandhi Shop — Pure Groceries & Farm Fresh Essentials</title>
-    <script type="module" crossorigin src="./assets/index-QkmXKrJE.js"></script>
-    <link rel="stylesheet" crossorigin href="./assets/index-dB2hpUL8.css">
+    <script type="module" crossorigin src="./assets/index-BxMuDnWk.js"></script>
+    <link rel="stylesheet" crossorigin href="./assets/index-BgeKcpTG.css">
   </head>
-  <body class="bg-[#FFF3D5] text-[#2B3A2C] font-sans antialiased selection:bg-[#4D694E] selection:text-[#FFF3D5] min-h-screen">
+  <body class="bg-[#FFFACD] text-[#381B1B] font-sans antialiased selection:bg-[#CD5C5C] selection:text-[#FFFACD] min-h-screen">
     <div id="root"></div>
   </body>
 </html>

diff --git a/index.html b/index.html
@@ -4,7 +4,7 @@
     <meta charset="UTF-8" />
     <link rel="icon" type="image/svg+xml" href="/favicon.svg" />
     <meta name="viewport" content="width=device-width, initial-scale=1.0" />
-    <meta name="theme-color" content="#4D694E" />
+    <meta name="theme-color" content="#CD5C5C" />
     <meta name="description" content="Gandhi Shop - Pure, Authentic, Handpicked Groceries and Organic Essentials delivered fresh to your doorstep." />
     
     <!-- Google Fonts: Playfair Display & Plus Jakarta Sans -->
@@ -14,7 +14,7 @@
 
     <title>Gandhi Shop — Pure Groceries & Farm Fresh Essentials</title>
   </head>
-  <body class="bg-[#FFF3D5] text-[#2B3A2C] font-sans antialiased selection:bg-[#4D694E] selection:text-[#FFF3D5] min-h-screen">
+  <body class="bg-[#FFFACD] text-[#381B1B] font-sans antialiased selection:bg-[#CD5C5C] selection:text-[#FFFACD] min-h-screen">
     <div id="root"></div>
     <script type="module" src="/src/main.jsx"></script>
   </body>

diff --git a/src/index.css b/src/index.css
@@ -3,18 +3,18 @@
 @tailwind utilities;
 
 :root {
-  --cream: #FFF3D5;
-  --cream-deep: #F6E6BC;
-  --cream-light: #FFF9EA;
-  --olive: #4D694E;
-  --olive-dark: #3A503B;
-  --olive-soft: rgba(77, 105, 78, 0.12);
-  --olive-border: rgba(77, 105, 78, 0.22);
-  --ink: #2B3A2C;
-  --ink-muted: #4B5E4C;
+  --cream: #FFFACD;
+  --cream-deep: #F5ECB7;
+  --cream-light: #FFFDEE;
+  --olive: #CD5C5C;
+  --olive-dark: #A83E3E;
+  --olive-soft: rgba(205, 92, 92, 0.12);
+  --olive-border: rgba(205, 92, 92, 0.25);
+  --ink: #381B1B;
+  --ink-muted: #633939;
 }
 
-/* Force global Beige Cream background on html and body */
+/* Force global Lemon Chiffon background on html and body */
 html, body {
   background-color: var(--cream);
   color: var(--ink);

diff --git a/README.md b/README.md
@@ -1,6 +1,6 @@
 # Gandhi Shop — Premium Grocery & Organic Provisions E-Commerce Showcase
 
-A production-quality, editorial grocery e-commerce showcase web application built for **Gandhi Shop**. Designed with a strict two-color brand system (Beige Cream `#FFF3D5` and Olive Green `#4D694E`), scroll-driven canvas frame scrubbing hero, dynamic Excel catalog parser (SheetJS), Amazon/Flipkart-style grocery grid, persistent live Cart & Wishlist with localStorage synchronization, and direct per-item WhatsApp order generation.
+A production-quality, editorial grocery e-commerce showcase web application built for **Gandhi Shop**. Designed with a strict two-color brand system (Lemon Chiffon `#FFFACD` and Indian Red `#CD5C5C`), scroll-driven canvas frame scrubbing hero, dynamic Excel catalog parser (SheetJS), Amazon/Flipkart-style grocery grid, persistent live Cart & Wishlist with localStorage synchronization, and direct per-item WhatsApp order generation.
 
 ---
 
@@ -16,17 +16,17 @@ A production-quality, editorial grocery e-commerce showcase web application buil
 ---
 
 ## 🎨 Design System & Color Palette
-The entire website is strictly built with **Beige Cream** as the global page background and **Olive Green** as the single signature identity color. There are **zero white or gray backgrounds** anywhere on the site.
+The entire website is strictly built with **Lemon Chiffon** as the global page background and **Indian Red** as the single signature identity color. There are **zero white or gray backgrounds** anywhere on the site.
 
 | Token | Hex / CSS Value | Description & Purpose |
 | :--- | :--- | :--- |
-| `cream` | `#FFF3D5` | Default global background on every page, drawer, and canvas base |
-| `cream-deep` | `#F6E6BC` | Sidebar base, order summary panels, filter sidebar, cards needing separation |
-| `cream-light` | `#FFF9EA` | Product card boxes, input fields, elevated surfaces, modal panels |
-| `olive` | `#4D694E` | Signature brand color: primary buttons, prices, active route, badges, slider, focus rings |
-| `olive-dark` | `#3A503B` | Hover and pressed states of olive buttons and elements |
-| `olive-soft` | `rgba(77, 105, 78, 0.12)` | Subtle tinted surfaces, active-state chips, hover backgrounds |
-| `ink` | `#2B3A2C` | High-contrast editorial body text and headings (WCAG AA compliant) |
+| `cream` | `#FFFACD` | Lemon Chiffon - Default global background on every page, drawer, and canvas base |
+| `cream-deep` | `#F5ECB7` | Deeper Lemon Chiffon - Sidebar base, order summary panels, filter sidebar, separation cards |
+| `cream-light` | `#FFFDEE` | Elevated surfaces, product card boxes, input fields, modal panels |
+| `olive` | `#CD5C5C` | Indian Red - Signature brand color: primary buttons, prices, active route, badges, slider, focus rings |
+| `olive-dark` | `#A83E3E` | Deep Indian Red - Hover and pressed states of primary buttons and elements |
+| `olive-soft` | `rgba(205, 92, 92, 0.12)` | Subtle tinted surfaces, active-state chips, hover backgrounds |
+| `ink` | `#381B1B` | High-contrast editorial body text and headings (deep terracotta, WCAG AAA compliant) |
 
 ### How to Change the Palette in One Place
 All colors are centralized in `src/theme.js` and exposed as CSS variables in `src/index.css` and `tailwind.config.js`. To change the brand theme, simply update the hex values in `src/theme.js` and `src/index.css`.
